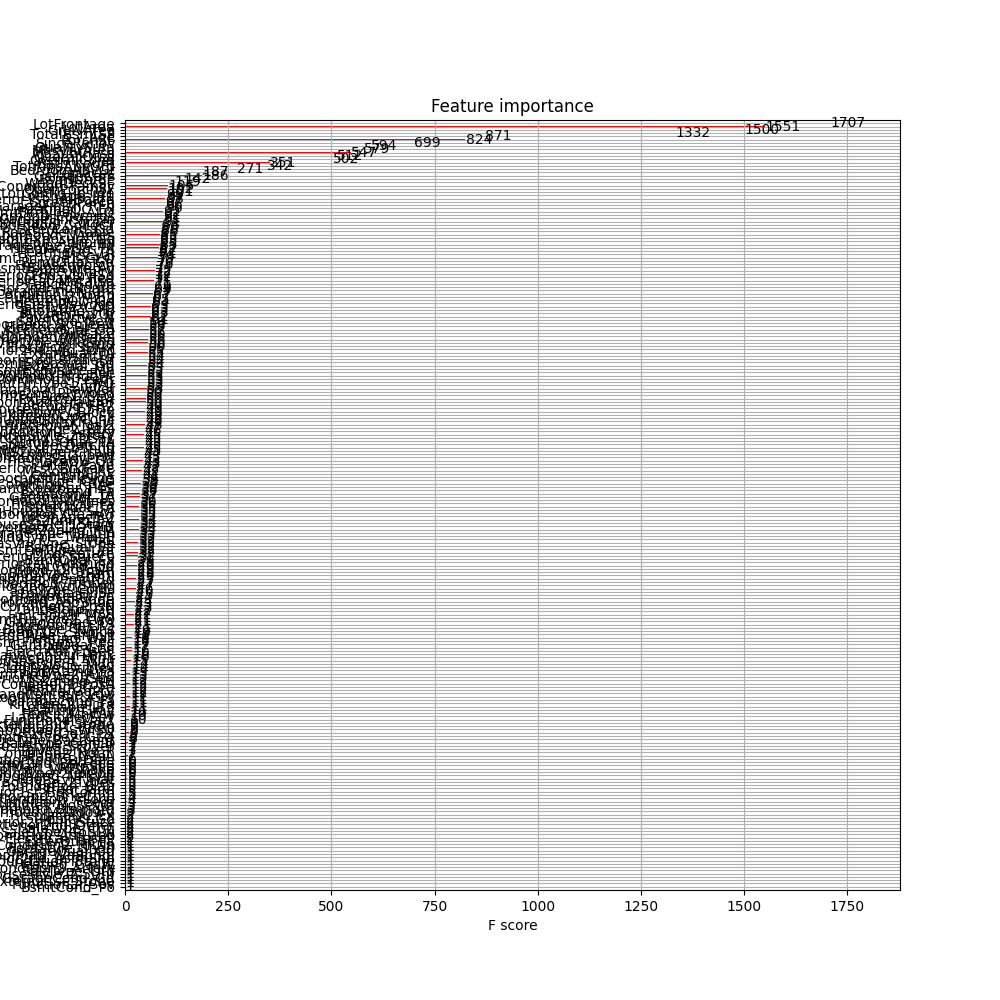
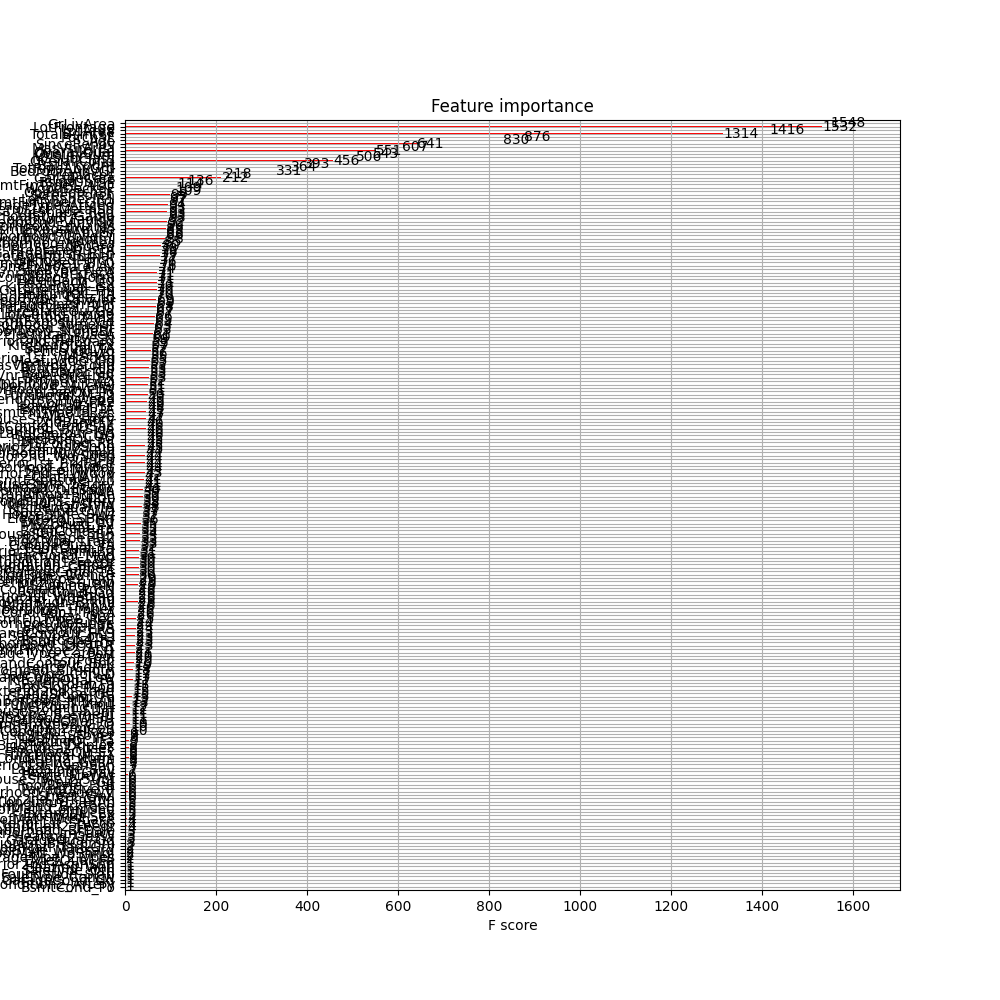
Fix train/test discrepancy; Remove columns with low correlation before LinReg; More functions

diff --git a/train.py b/train.py
@@ -70,6 +70,18 @@ def low_corr_target(df, target_feature, cut_off):
 			drop_cutoff[col] = df[target_feature].corr(df[col])
 	return drop_cutoff
 
+def count_outliers(df, columns, IQR_range):
+	dict_outlier = {}
+	for col in [element for element in columns if element in df]:
+		Q1, Q3 = np.percentile(df[col], 25), np.percentile(df[col], 75)
+		IQR = Q3 - Q1
+		cut_off = IQR * IQR_range
+		lower = Q1 - cut_off 
+		upper = Q3 + cut_off
+		outliers = [x for x in df[col] if x < lower or x > upper]
+		dict_outlier[col] = len(outliers)
+	return dict_outlier
+
 #####DATA IMPORT
 train = pd.read_csv('train.csv')
 train.name = 'train'
@@ -119,7 +131,6 @@ combine_data = pd.concat([train, test], axis=0)
 print(combine_data.groupby('MSZoning', as_index=False)['YearBuilt'].mean())
 print(combine_data.groupby('MSZoning', as_index=False)['Neighborhood'].apply(lambda x: x.value_counts().head(1)))
 print(combine_data.groupby('MasVnrType', as_index=False)['OverallQual'].mean())
-
 
 numeric_list = ['MiscFeature','Pool','2ndFlr']
 drop_list_columns = ['YearBuilt','YearRemodAdd','1stFlrSF','2ndFlrSF','YrSold','MoSold','BsmtFinSF1','BsmtFinSF2']  ###Year columns engineered, FlrSF combined and discrete variable for 2nd floor, Time sold no correlation, BsmtFin engineered
@@ -299,10 +310,15 @@ plt.close
 
 for col in hot_encode_list:
 	train = pd.concat([train,pd.get_dummies(train[col], prefix=col)],axis=1)
-	train.drop([col],axis=1, inplace=True)
+	train.drop(col,axis=1, inplace=True)
 	test = pd.concat([test,pd.get_dummies(test[col], prefix=col)],axis=1)
-	test.drop([col],axis=1, inplace=True)
+	test.drop(col,axis=1, inplace=True)
 
+print('\nThe following columns are only present in the train set after hot encoding. Removing:')
+unique_train = list(set(list(train.columns))- set(list(test.columns)))
+unique_train.remove('SalePrice')
+print(unique_train)
+train.drop(unique_train,axis=1, inplace=True)
 
 drop_list_columns.extend(['SaleType_WD', 'SaleCondition_Normal', 'Functional_Typ', 'CentralAir_N', 'Street_Pave', 'PavedDrive_Y', 'Utilities_AllPub'])
 for col in train.columns:
@@ -319,9 +335,7 @@ label_encoder = preprocessing.LabelEncoder()
 for i in data:
 	for col in i.columns:
 		if i.dtypes[col] == 'object': #####label encode all columns with str
-			i[col]= label_encoder.fit_transform(i[col])	
-
-print(train.info())
+			i[col]= label_encoder.fit_transform(i[col])
 
 #####HISTOGRAMS CONTINUOUS DATA
 f, ax = plt.subplots(4, 5, figsize=(20, 20))
@@ -378,7 +392,7 @@ for i in data:
 			pass
 	i = i.rename({'OpenPorchSF': 'OpenPorch', 'WoodDeckSF': 'WoodDeck'}, axis=1)
 
-###ANALYZE CORRELATION BETWEEN FEATURES; REMOVE HIGH CORRELATION FEATURES AUTOMATICALLY
+###ANALYZE CORRELATION BETWEEN FEATURES; REMOVE HIGH CORRELATION FEATURES
 high_corr, drop_corr = correlation_columns(train, 'SalePrice', 0.7, 0.95)
 
 for col in drop_corr:
@@ -392,24 +406,17 @@ print('\nAutomatically removed:')
 print(*drop_corr, sep = '\n')
 
 ###SKEWNESS OF TRANSFORMED FEATURES
-cont_skew = []
+cont_skew = {}
 for col in [element for element in transform_list if element in train]:
-	cont_skew.append([col, train[col].skew()])
+	cont_skew[col] = train[col].skew()
 print('\nSkewness of continuous features:')
-print(*cont_skew, sep = '\n')
+[print(key,':',value) for key, value in cont_skew.items()]
 
 ###CHECK FOR OUTLIERS
-cont_outlier = []
-for col in [element for element in transform_list if element in train]:
-	Q1, Q3 = np.percentile(train[col], 25), np.percentile(train[col], 75)
-	IQR = Q3 - Q1
-	cut_off = IQR * 3
-	lower = Q1 - cut_off 
-	upper = Q3 + cut_off
-	outliers = [x for x in train[col] if x < lower or x > upper]
-	cont_outlier.append([col, len(outliers)])
+cont_outlier = count_outliers(train, transform_list, 3)
 print('\nOutliers in continuous features (3*IQR):')
-print(*cont_outlier, sep = '\n')
+[print(key,':',value) for key, value in cont_outlier.items()]
+##print(*cont_outlier, sep = '\n')
 
 ###SCATTER PLOT CONTINUOUS FEATURES
 f, ax = plt.subplots(4, 4, figsize=(20, 20))
@@ -455,38 +462,34 @@ f.tight_layout()
 plt.savefig('graphs/hist_after_distr.png')
 plt.close
 
-###FINAL CORRELATION MATRIC
+###FINAL CORRELATION MATRIX
 trainMatrix = train.corr()
 f, ax = plt.subplots(figsize=(32, 30))
 sn.heatmap(trainMatrix, annot=True)
 plt.savefig('graphs/heatmap_cutoff.png')
 plt.close
 
+###IDENTIFY FEATURES WITH LOW CORRELATION TO PRICE FOR REMOVAL BEFORE LINEAR REGRESSION
 print('\n***Remove features with low correlation to SalePrice for linear regression***')
-low_corr_dict = low_corr_target(train, 'SalePrice', 0.05)
-print(low_corr_dict)
+low_corr_dict = low_corr_target(train, 'SalePrice', 0.1)
 low_corr = list(low_corr_dict.keys())
 if 'Id' in low_corr:
 	low_corr.remove('Id')
-train_linreg = train.drop(low_corr, axis=1)
-test_linreg = test.drop(low_corr, axis=1)
-
+print(low_corr)
 
 ###TRAIN AND TEST DATA, SPLIT
 X_train = train.drop(['SalePrice', 'Id'], axis=1)
 Y_train = train['SalePrice']
 x_train, x_test, y_train, y_test = train_test_split(X_train, Y_train, test_size=0.3, random_state=666)
 
-X_train_lin = train_linreg.drop(['SalePrice', 'Id'], axis=1)
-Y_train_lin = train_linreg['SalePrice']
-x_train_lin, x_test_lin, y_train_lin, y_test_lin = train_test_split(X_train_lin, Y_train_lin, test_size=0.3, random_state=666)
-
 print('\n***Performance of various models***')
 ###LINEAR REGRESSION
+x_train_lin = x_train.drop(low_corr, axis=1)
+x_test_lin = x_test.drop(low_corr, axis=1)
 linreg = LinearRegression()
-linreg.fit(x_train_lin, y_train_lin)
+linreg.fit(x_train_lin, y_train)
 Y_pred = linreg.predict(x_test_lin)
-print('Accuracy Linear Regression (RMSLE):',np.sqrt(metrics.mean_squared_log_error(np.expm1(y_test_lin), np.expm1(Y_pred))))
+print('Accuracy Linear Regression (RMSLE):',np.sqrt(metrics.mean_squared_log_error(np.expm1(y_test), np.expm1(Y_pred))))
 ###RANDOM FOREST REGRESSOR
 rf_reg=RandomForestRegressor(n_estimators= 1000, random_state=666)
 rf_reg.fit(x_train,y_train)
